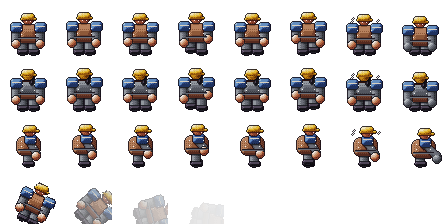
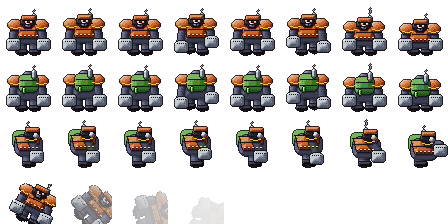
Cambiata grafica bruto, sistemate le barriere dei nemici, se il giocatore rimane incastrato muovendo per 0.6s in una direzione lo porta nel box più vicino dove fitta. Sistemati punti nella città dove ci si poteva incastrare

diff --git a/Tools/art/enemies.py b/Tools/art/enemies.py
@@ -140,53 +140,79 @@ def bomber(d, phase=None, bob=0, wind=False, attack=False):
 # ------------------------------------------------------------------ brute
 
 def brute(d, phase=None, bob=0, wind=False, attack=False):
+    """Hulking, hunched polluter: rust-orange hazard armor, a sludge tank with a
+    smoking stack on its back, a black respirator with red eyes and huge
+    mechanical fists hanging low."""
     S = 56
-    c = Canvas(S, S, pal(armor="#8e5a3a", plate="#6a6e78", drum="#3a5c9e", hat="#e2b830",
-                         skin="#c8906a", dark="#26222c", eye="#ff4a3a", band="#d8d0c0"))
+    c = Canvas(S, S, pal(suit="#4a4e64", armor="#c8682a", stripe="#f0cc34", tank="#4e8a3a", metal="#9aa2ae",
+                         mask="#26242a", eye="#ff3a2a", dark="#1c1a20", smoke="#8a8a90", goo="#9ae04a"))
     cx, base = 28, 53
     side = d == "side"
-    lean = 3 if attack else (1 if wind else 0)
-    legs(c, cx, base, phase, side, "plate", "dark", w=4.2, gap=5.5, h=12)
-    ty = base - 28 + bob + lean
-    cxx = cx + (lean if side else 0)
-    c.add(rbox("armor", 2, cxx - 11, ty, cxx + 11, ty + 17, rad=6))             # barrel chest
-    for x in range(cxx - 10, cxx + 11):
-        c.dot(x, ty + 12, "dark", 2)
-        c.dot(x, ty + 13, "plate", 3)
-    if d == "up":   # back: a riveted steel plate and the exhaust of the suit
-        c.add(rbox("plate", 2.5, cxx - 8, ty + 1, cxx + 8, ty + 11, rad=3, depth=0.6))
-        for (x, y) in ((cxx - 6, ty + 3), (cxx + 6, ty + 3), (cxx - 6, ty + 9), (cxx + 6, ty + 9)):
-            c.dot(x, y, "band", 4)
-        c.add(capsule("dark", 2.6, cxx + 4, ty + 2, cxx + 4, ty - 4, 1.6))
-    else:
-        for (x, y) in ((cxx - 7, ty + 4), (cxx + 7, ty + 4), (cxx - 7, ty + 9), (cxx + 7, ty + 9)):
-            c.dot(x, y, "band", 4)                                               # rivets
-    # oil-drum shoulder pads + big arms
-    for s in (-1, 1):
-        if side and s < 0:
+    lean = 4 if attack else (2 if wind else 0)
+    # short, thick legs with boots
+    legs(c, cx, base, phase, side, "suit", "dark", w=4.6, gap=6.5, h=10)
+    ty = base - 30 + bob + lean          # top of the shoulders
+    bx = cx + (lean if side else 0)
+    # sludge tank + smoke stack on the back (behind the body unless seen from behind)
+    tz = 4.5 if d == "up" else 0.8
+    tx = bx - (6 if side else 0)
+    c.add(rbox("tank", tz, tx - 9, ty - 4, tx + 9, ty + 12, rad=5))
+    for x in range(int(tx - 8), int(tx + 9)):
+        c.dot(x, ty + 1, "dark", 2)
+        c.dot(x, ty + 7, "dark", 2)
+    c.add(capsule("metal", tz + 0.1, tx + 6, ty - 2, tx + 6, ty - 7, 1.8))      # stack
+    puff = 3 if wind else 1
+    for k in range(puff):
+        c.dot(tx + 5 + (k % 2), ty - 12 - k * 2, "smoke", 4)
+        c.dot(tx + 6, ty - 13 - k * 2, "smoke", 3)
+    if d == "up":
+        c.add(capsule("goo", 4.6, tx - 4, ty + 10, tx - 4, ty + 13, 1.0))      # leak
+    # massive hunched torso: dark suit with rust armor plates + hazard stripes
+    c.add(rbox("suit", 2, bx - 13, ty, bx + 13, ty + 20, rad=8))
+    if d != "up":
+        c.add(poly("armor", 2.5, [(bx - 12, ty + 2), (bx + 12, ty + 2), (bx + 9, ty + 15), (bx - 9, ty + 15)], depth=0.9))
+        for x in range(bx - 9, bx + 10):
+            if (x // 2) % 2 == 0:
+                c.dot(x, ty + 12, "stripe", 4)
+                c.dot(x, ty + 13, "dark", 2)
+    # huge shoulder plates
+    for s_ in (-1, 1):
+        if side and s_ < 0:
             continue
-        sx = cxx + s * (12 if not side else 2)
-        c.add(rbox("drum", 3.5, sx - 5, ty - 2, sx + 5, ty + 6, rad=3))
-        for x in range(sx - 4, sx + 5):
-            c.dot(x, ty + 1, "band", 3)
-        fist_y = ty + 17 + (2 if phase is None else math.sin((phase or 0) * math.tau + (0 if s < 0 else math.pi)) * 2)
-        fx = sx + (6 if side else 0) + (lean * 2 if side else 0)
-        c.add(capsule("plate", 3, sx, ty + 5, fx, fist_y - 3, 3.6))
-        c.add(ellipsoid("skin" if not attack else "plate", 3.2, fx, fist_y, 4.2, 4))
-    # small head with hard hat, glowing eyes
-    hy = ty - 5
-    c.add(ellipsoid("skin" if d != "up" else "hat", 4, cxx + (2 if side else 0), hy, 5, 4.5))
-    c.add(ellipsoid("hat", 4.3, cxx + (2 if side else 0), hy - 3, 6.5, 3.5))
-    c.add(rbox("hat", 4.25, cxx - 7 + (2 if side else 0), hy - 2, cxx + 7 + (3 if side else 0), hy - 1, rad=0.8, depth=0.5))
-    if d == "down":
-        for s in (-1, 1):
-            c.dot(cxx + s * 2, hy + 1, "eye", 5)
-    elif side:
-        c.dot(cxx + 5, hy + 1, "eye", 5)
-    if wind:   # steam puffs while it winds up the charge
-        for (x, y) in ((cxx - 13, ty - 4), (cxx + 13, ty - 5), (cxx - 12, ty - 7)):
-            c.dot(x, y, "band", 5)
-            c.dot(x + 1, y - 1, "band", 4)
+        sx = bx + s_ * (13 if not side else 3)
+        c.add(ellipsoid("armor", 3.4, sx, ty + 2, 7, 5.5))
+        for k in range(-5, 6):
+            c.dot(sx + k, ty + 5 - abs(k) // 3, "stripe", 3)
+        # long arms ending in big mechanical fists near the ground
+        swing = 0 if phase is None else math.sin(phase * math.tau + (0 if s_ < 0 else math.pi)) * 2.5
+        fx = sx + s_ * (2 if not side else 0) + (5 + lean * 2 if side else 0)
+        fy = base - 9 + swing - (6 if attack and side else 0)
+        c.add(capsule("suit", 3.2, sx, ty + 4, fx, fy - 5, 3.6))
+        c.add(rbox("metal", 3.6, fx - 6, fy - 5, fx + 6, fy + 5, rad=3))        # gauntlet
+        for x in range(int(fx - 4), int(fx + 5), 2):
+            c.dot(x, fy - 3, "dark", 1)                                       # knuckle plates
+    # small head sunk between the shoulders: respirator, red eyes
+    hy = ty - 1
+    hx = bx + (4 if side else 0)
+    if d == "up":
+        c.add(ellipsoid("suit", 4.2, hx, hy - 1, 6, 5))
+        c.add(capsule("dark", 4.3, hx - 4, hy - 1, hx + 4, hy - 1, 1.0))   # mask strap
+    else:
+        c.add(ellipsoid("mask", 4.2, hx, hy, 7, 6.5))
+        c.add(rbox("armor", 4.25, hx - 6, hy - 6, hx + 6, hy - 3, rad=1.5, depth=0.6))   # helmet brow
+        if side:
+            c.add(ellipsoid("metal", 4.4, hx + 4, hy + 2, 2.6, 2.6))       # filter
+            for (ex, ey) in ((2, -1), (3, -1), (3, 0)):
+                c.dot(hx + ex, hy + ey, "eye", 5)
+        else:
+            for s_ in (-1, 1):
+                for (ex, ey) in ((2, -1), (3, -1), (2, 0), (3, 0)):
+                    c.dot(hx + s_ * ex, hy + ey, "eye", 5 if ey < 0 else 4)
+            c.add(ellipsoid("metal", 4.4, hx, hy + 3, 3, 2.4))            # filter
+            c.dot(hx, hy + 3, "dark", 1)
+    if wind:   # red-hot eyes while winding up
+        for (x, y) in ((hx - 4, hy - 3), (hx + 4, hy - 3)):
+            c.dot(x, y, "eye", 3)
     return c.render()
 
 
